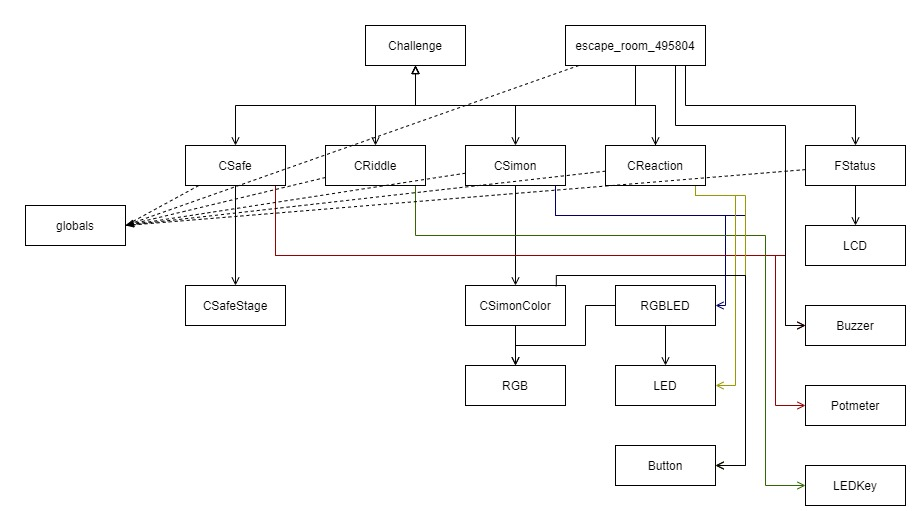
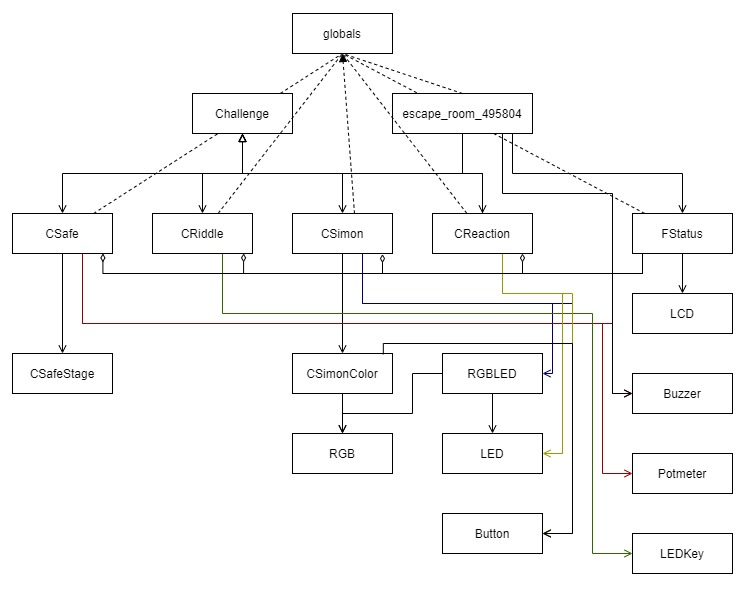
.

diff --git a/escape_room_495804/docs/Ontwerp.md b/escape_room_495804/docs/Ontwerp.md
@@ -1,5 +1,18 @@
 # Ontwerp
 
-## Sequentie Diagrammen
+## Klassen Diagram
+<img src="imgs/ontwerp/Class%20Diagram.jpg" width="800px"></img><br>
+In `escape_room` worden de challenges, `FStatus` en een globale `Buzzer` aangemaakt. `Globals` heeft definities voor alle pinnen.
+
+Alle challenges erven van `Challenge` die de `CHALLENGE_ID` en `IsDone` variabelen en de `setup` en `loop` methoden heeft. De challenges maken hun bijbehorende hardware klassen aan en geven deze de pin die in `globals` staat.
+Sommige challenges hebben een sub klas om de code en data wat te verdelen. Zo heeft `CSafe` meerdere `CSafeStages` waarin de start en eind waardes staan van het bereik staan. Ook heeft de klas een methode `isInRange()` om te kijken of de potmeter goed staat.
+
+`FStatus` heeft een referentie van de challenges om hun `IsDone` op te vragen, en bij een win of verlies, positief te zetten.
+
+In `escape_room` staan de hoofd `setup` en `loop` functies. Hier worden de `setup` en `loop` methoden van de challenges en `FStatus` geroepen.
+
+`RGB` is een data klas met een rood, groen en blauw waarde tussen de 0 en 255. `RGBLED` gebruikt deze om zijn 3 `LED`s makkelijk aan te passen. Hier staan ook wat presets van veel gebruikte kleuren.
+
+## Sequentie Diagram
 <img src="imgs/ontwerp/Sequence%20Diagram%20-%20Safe.jpg" width="800px"></img><br>
-Bij het draaien van de potmeter veranderd de analoge waarde die naar de arduino wordt gestuurd. Deze kan gelezen worden via de bijbehorende potmeter klas. De safe challenge klas leest daar de waarde en kijkt dan bij de huidige stage of het binnen het nodige bereik ligt. Zo ja, wordt de buzzer via de bijbehorende buzzer klas aangestuurd.
+Bij het draaien van de potmeter veranderd de analoge waarde die naar de arduino wordt gestuurd. Deze kan gelezen worden via de bijbehorende `Potmeter` klas. De safe challenge klas (`CSafe`) leest daar de waarde en kijkt dan bij de huidige stage (`CSafeStage`) of het binnen het nodige bereik ligt. Zo ja, wordt de buzzer via de bijbehorende `Buzzer` klas aangestuurd.
